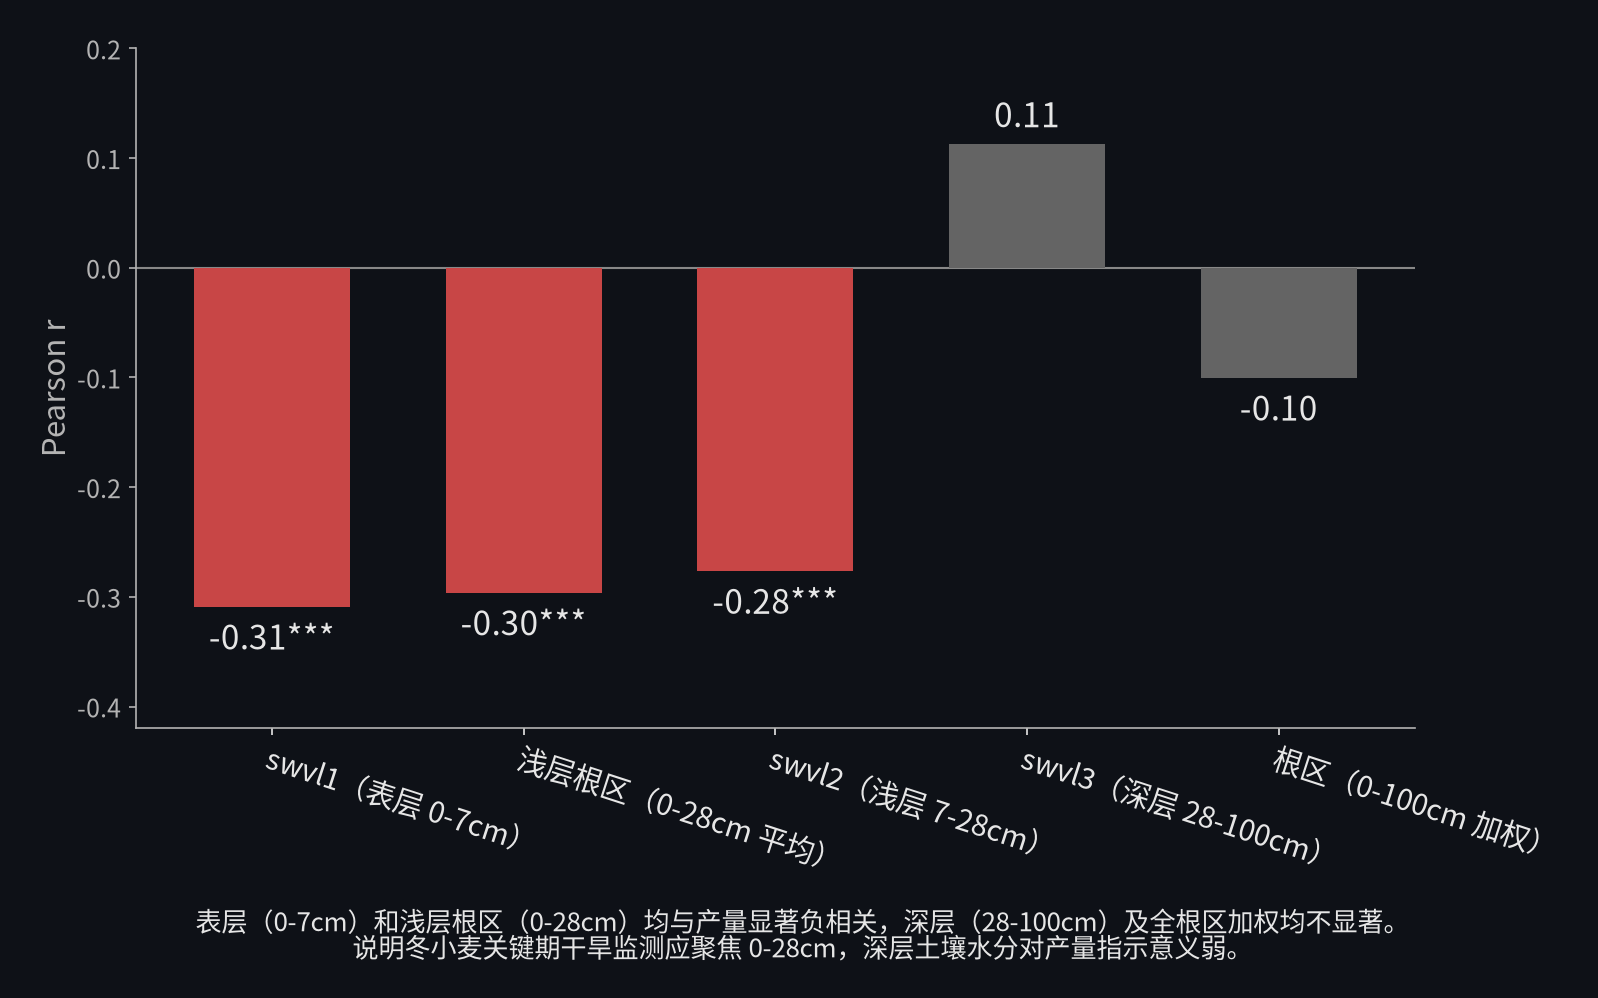
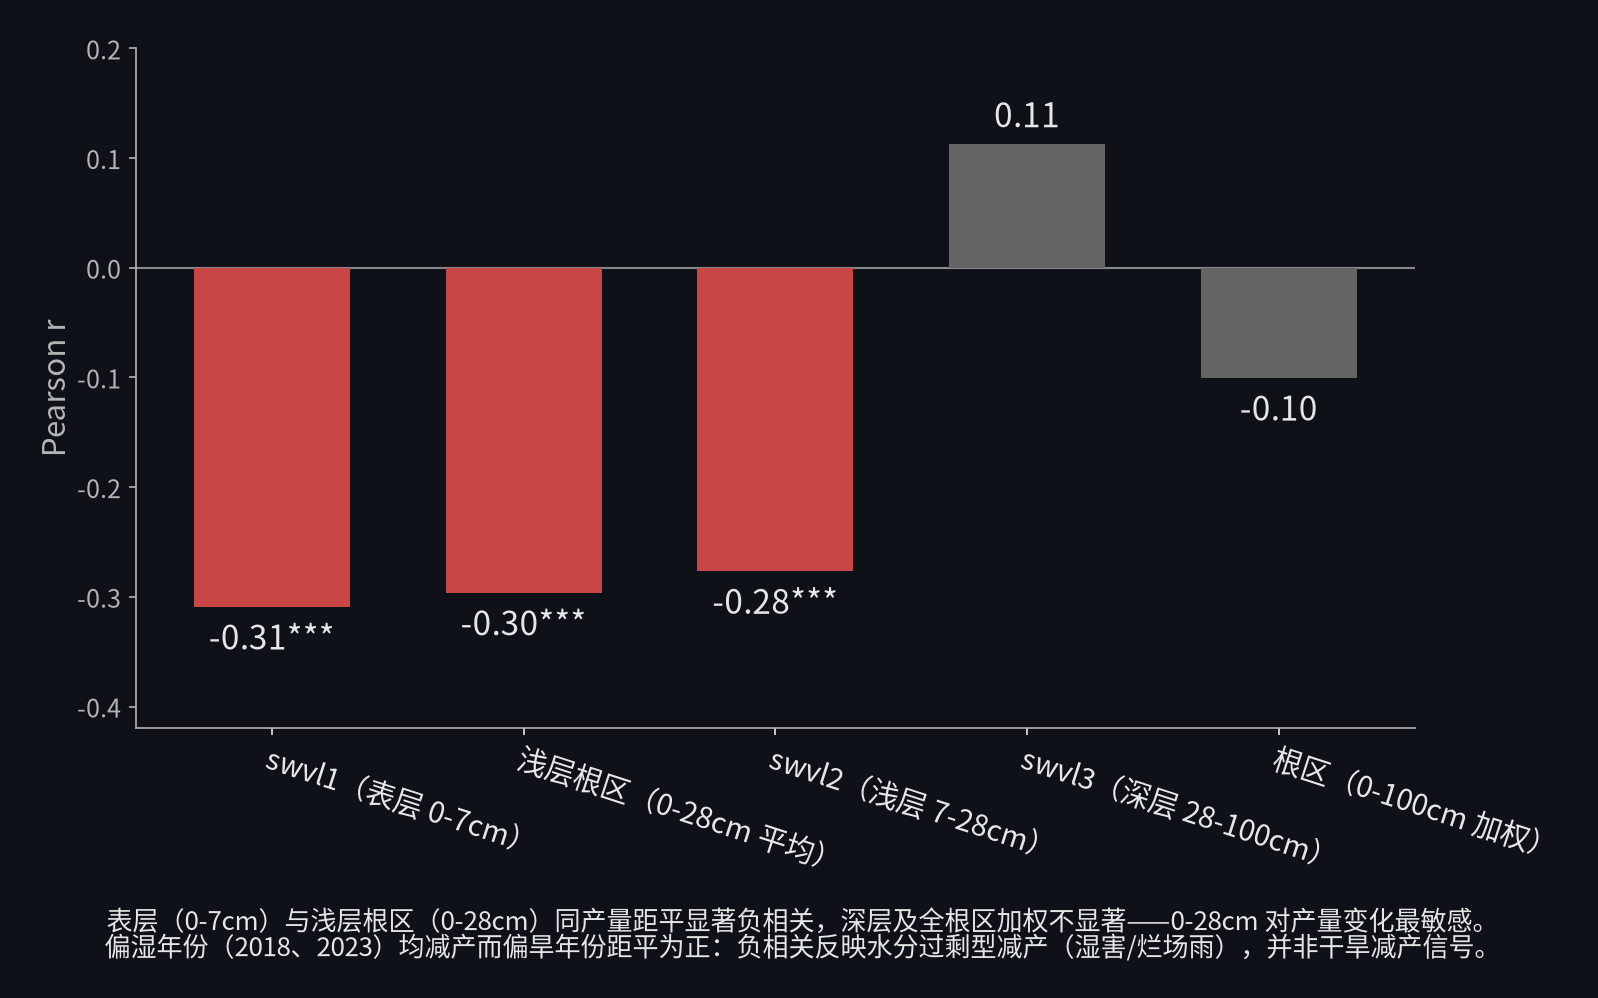
修正产量关联结论的方向性解释: 负相关为偏湿型减产信号而非干旱减产
四路径审计(复跑/月度tif直读/CSV直算/像元级z比对)确认 SSI=+z(负=旱)、r=-0.296 为真实负相关, 链路无取反

驱动事实: 2016-2024 主要减产年(2018霜冻/2023烂场雨)均为4-5月偏湿年份, 偏旱年份(2019/2020/2022)距平均为正

修正 app.py 三处文案 + 五层对比图结论并重新生成深色PNG; 新增 verify_corr_sign.py 符号审计脚本

Changed region(s): [[0.0613, 0.9008, 0.9199, 0.9629]]

diff --git a/verify_corr_sign.py b/verify_corr_sign.py
@@ -1,0 +1,148 @@
+# -*- coding: utf-8 -*-
+"""
+符号审计: 五层 SSI x 产量距平的相关系数 r 究竟是 -0.296 还是 +0.296
+四条独立路径交叉验证 (以浅层根区 0-28cm 为主, 辅以 swvl1):
+  A. 原始脚本复跑 (yield_ssi_analysis_layers.py, 20 波段堆叠)  -> r = -0.296 (已确认)
+  B. 绕过 20 波段堆叠: 直接读 120 个月度 SSI tif 中的 4/5 月 -> 独立重算 r
+  C. 已生成时序 CSV 直接 pearsonr (算术一致性检查)
+  D. 像元级验证: 用原始浅层土壤水分月度 tif 现算 z=(x-mean)/std (ddof=0),
+     与 SSI tif 逐像元比对 -> 证明 SSI = +z (链路中不存在取反)
+最后打印全省逐年 SSI 均值 x 产量距平均值 + 单市明细, 定位负相关的驱动年份。
+"""
+from pathlib import Path
+
+import geopandas as gpd
+import numpy as np
+import pandas as pd
+import rasterio
+from rasterio.features import geometry_mask
+from scipy import stats
+
+ROOT = Path(r"D:\大二\干旱预测")
+YIELD_XLSX = Path(r"d:\桌面\henan_wheat_yield.xlsx")
+CITY_SHP = ROOT / "河南省市shp" / "河南省.shp"
+TS_CSV = ROOT / "产量关联分析" / "city_yield_ssi_timeseries_shallow.csv"
+
+MONTHLY = {"shallow": ROOT / "河南省SSI" / "swvl_shallow_ssi",
+           "swvl1": ROOT / "河南省SSI" / "swvl1"}
+RAW_SM = ROOT / "河南省SSI" / "swvl_shallow"      # 浅层原始土壤水分月度 tif
+
+
+def norm_city(name):
+    n = str(name).strip()
+    for suf in ("示范区", "市"):
+        if n.endswith(suf) and len(n) > len(suf):
+            return n[:-len(suf)]
+    return n
+
+
+def read_tif_nan(path):
+    with rasterio.open(path) as src:
+        arr = src.read(1).astype(np.float64)
+        nod = src.nodata if src.nodata is not None else -3.4e38
+        meta = (src.transform, src.height, src.width)
+    arr[arr <= nod] = np.nan
+    return arr, meta
+
+
+# ---------- 产量距平 (与前期脚本完全一致的公式: 距平 = 实际 - 线性趋势) ----------
+df = pd.read_excel(YIELD_XLSX)
+df.columns = ["年份", "城市", "产量"]
+df["年份"] = df["年份"].astype(int)
+df["key"] = df["城市"].map(norm_city)
+recs = []
+for key, g in df.groupby("key"):
+    g = g.sort_values("年份")
+    x = g["年份"].to_numpy(float)
+    y = g["产量"].to_numpy(float)
+    a, b = np.polyfit(x, y, 1)
+    for yr, yi, ti in zip(x.astype(int), y, a * x + b):
+        recs.append({"年份": yr, "key": key, "实际产量": yi, "趋势产量": ti,
+                     "距平": yi - ti, "减产率%": (yi - ti) / ti * 100.0})
+yield_df = pd.DataFrame(recs)
+
+# ---------- 城市边界 ----------
+gdf = gpd.read_file(CITY_SHP, encoding="utf-8")
+if gdf.crs and gdf.crs.to_epsg() != 4326:
+    gdf = gdf.to_crs(4326)
+CITIES = [(str(r["name"]), norm_city(r["name"]), r.geometry) for _, r in gdf.iterrows()]
+
+
+def city_means(paths):
+    """读若干单波段 tif -> 各市全时段均值 (all_touched, 与前期脚本一致)"""
+    cube = []
+    meta = None
+    for p in paths:
+        arr, meta = read_tif_nan(p)
+        cube.append(arr)
+    cube = np.stack(cube)
+    transform, h, w = meta
+    out = {}
+    for _, key, geom in CITIES:
+        mask = geometry_mask([geom], out_shape=(h, w), transform=transform,
+                             invert=True, all_touched=True)
+        vals = cube[:, mask]
+        vals = vals[np.isfinite(vals)]
+        out[key] = float(vals.mean()) if vals.size else np.nan
+    return out
+
+
+# ---------- 路径 B: 月度 tif 直读 -> 逐年各市 4-5 月 SSI 均值 ----------
+print("=" * 76)
+print("B. 绕过 20 波段堆叠, 直接读月度 SSI tif 重算相关")
+print("=" * 76)
+for tag, folder in MONTHLY.items():
+    rows = []
+    for yr in range(2016, 2026):
+        means = city_means([folder / f"河南SSI_{yr}04.tif", folder / f"河南SSI_{yr}05.tif"])
+        rows += [{"年份": yr, "key": k, "SSI": v} for k, v in means.items()]
+    ssi_df = pd.DataFrame(rows)
+    mg = yield_df.merge(ssi_df, on=["年份", "key"]).dropna(subset=["SSI"])
+    r, p = stats.pearsonr(mg["SSI"], mg["距平"])
+    print(f"  {tag:<8} n={len(mg)}  r={r:+.4f}  p={p:.3e}")
+    if tag == "shallow":
+        ssi_shallow = ssi_df
+        mg_shallow = mg
+
+# ---------- 路径 C: 现成时序 CSV 直接 pearsonr ----------
+ts = pd.read_csv(TS_CSV, encoding="utf-8-sig")
+tsy = ts.dropna(subset=["距平"])
+rC, pC = stats.pearsonr(tsy["SSI"], tsy["距平"])
+print(f"\nC. 时序CSV直算: n={len(tsy)}  r={rC:+.4f}  p={pC:.3e}")
+
+# ---------- 路径 D: 像元级验证 SSI = +z (2025年4月, 浅层) ----------
+print("\n" + "=" * 76)
+print("D. 像元级验证: 用原始浅层土壤水分现算 z, 与 SSI tif 比对 (2025-04)")
+print("=" * 76)
+april_sm = []
+for yr in range(2016, 2026):
+    arr, meta = read_tif_nan(RAW_SM / f"河南浅层SM_{yr}04.tif")
+    april_sm.append(arr)
+samples = np.stack(april_sm)
+mean = np.nanmean(samples, axis=0)
+std = np.nanstd(samples, axis=0, ddof=0)
+z = (samples[-1] - mean) / std          # 2025-04 的 z 分数
+ssi_2504, _ = read_tif_nan(MONTHLY["shallow"] / "河南SSI_202504.tif")
+ok = np.isfinite(z) & np.isfinite(ssi_2504)
+diff = np.abs(z[ok] - ssi_2504[ok])
+print(f"  有效像元 {ok.sum()} 个, |z现算 - SSI.tif| 最大 {diff.max():.4f}, 均值 {diff.mean():.2e}")
+print(f"  corr(z现算, SSI.tif) = {np.corrcoef(z[ok], ssi_2504[ok])[0, 1]:.4f}  (≈1 且同号 => SSI=+z, 无取反)")
+for i, (r_, c_) in enumerate(zip(*np.where(ok)[:3])):
+    print(f"  像元样例 {i+1} (行{r_},列{c_}): 现算 z={z[r_, c_]:+.3f}  vs  SSI tif={ssi_2504[r_, c_]:+.3f}")
+
+# ---------- 驱动分析: 全省逐年 SSI 均值 x 产量距平均值 ----------
+print("\n" + "=" * 76)
+print("驱动分析: 全省逐年 4-5月浅层SSI均值 x 产量距平均值 (2016-2024)")
+print("=" * 76)
+yearly = (mg_shallow.groupby("年份")
+          .agg(SSI均值=("SSI", "mean"), 距平均值=("距平", "mean"),
+               减产率均值=("减产率%", "mean"), n=("距平", "size"))
+          .round(3))
+print(yearly.to_string())
+ry, py = stats.pearsonr(yearly["SSI均值"], yearly["距平均值"])
+print(f"\n  逐年省级均值的相关: r={ry:+.3f} (n={len(yearly)}年)")
+
+# 单市明细: 周口 (浅层 r=-0.613 的代表市)
+print("\n周口市逐年明细 (浅层):")
+zk = mg_shallow[mg_shallow["key"] == "周口"].sort_values("年份")
+print(zk[["年份", "SSI", "实际产量", "趋势产量", "距平", "减产率%"]].round(2).to_string(index=False))

diff --git a/app.py b/app.py
@@ -593,8 +593,8 @@ try:
                    tickfont=dict(size=15, color=_txt_color), tickangle=-18),
     )
     st.plotly_chart(fig_corr, use_container_width=True)
-    st.caption("表层（0-7cm）和浅层根区（0-28cm）均与产量显著负相关，深层（28-100cm）及全根区加权均不显著。"
-               "说明冬小麦关键期干旱监测应聚焦 0-28cm，深层土壤水分对产量指示意义弱。")
+    st.caption("表层（0-7cm）与浅层根区（0-28cm）SSI 同产量距平显著负相关，深层（28-100cm）及全根区加权不显著：0-28cm 对产量变化最敏感。"
+               "样本期（2016-2024）偏湿年份（2018、2023）均减产而偏旱年份（2019、2020、2022）距平均为正——负相关反映偏湿型减产，而非干旱减产。")
 except Exception as exc:
     st.info(f"层位对比数据暂不可用（{exc}）")
 
@@ -641,7 +641,8 @@ if st.session_state.get("click"):
             mod_plus = float(np.average(_lv, weights=_wt)) if _lv else np.nan
             y1, y2, y3 = st.columns(3)
             y1.metric("SSI-产量相关系数 r", f"{r_v:+.2f}" if np.isfinite(r_v) else "—",
-                      help="产量距平 与 4-5月SSI 的 Pearson 相关; 负值 = 越干旱越减产")
+                      help="产量距平 与 4-5月SSI 的 Pearson 相关（SSI 低=旱、距平负=减产，干旱致减产应表现为 r>0）。"
+                           "样本期实测 r 多为负：偏湿年（2018、2023）均减产、偏旱年距平为正，负相关反映的是偏湿型减产而非干旱减产")
             y2.metric("显著性 p 值", (f"{p_v:.3f}" if np.isfinite(p_v) else "—")
                       + (" (显著)" if np.isfinite(p_v) and p_v < 0.05 else ""))
             y3.metric("中度以上干旱平均减产率",
@@ -668,8 +669,8 @@ if st.session_state.get("click"):
                 legend=dict(orientation="h", yanchor="bottom", y=1.02),
             )
             st.plotly_chart(fig_y, use_container_width=True)
-            st.caption("柱=产量距平 (左轴, 负值=减产), 线=4-5月SSI (右轴, 越低越旱); "
-                       "产量数据 2016-2024, SSI 2016-2025。若 SSI 低点常对应负距平柱, 则干旱减产成立。")
+            st.caption("柱=产量距平 (左轴, 负值=减产), 线=4-5月SSI (右轴, 越低越旱); 产量数据 2016-2024, SSI 2016-2025。"
+                       "样本期内减产年多为 4-5 月偏湿（SSI 高点）年份（如 2023 烂场雨、2018 霜冻），偏旱年份距平均为正。")
 
     # ---- 干旱事件列表 (游程理论, 按 行/列 精确匹配点击像元) ----
     ev_px = load_events(version)

diff --git a/产量关联分析/plot_layer_corr_bar.py b/产量关联分析/plot_layer_corr_bar.py
@@ -72,8 +72,8 @@ def main():
 
     # 结论文字 (图下方)
     fig.text(0.5, 0.015,
-             "表层（0-7cm）和浅层根区（0-28cm）均与产量显著负相关，深层（28-100cm）及全根区加权均不显著。\n"
-             "说明冬小麦关键期干旱监测应聚焦 0-28cm，深层土壤水分对产量指示意义弱。",
+             "表层（0-7cm）与浅层根区（0-28cm）同产量距平显著负相关，深层及全根区加权不显著——0-28cm 对产量变化最敏感。\n"
+             "偏湿年份（2018、2023）均减产而偏旱年份距平为正：负相关反映水分过剩型减产（湿害/烂场雨），并非干旱减产信号。",
              ha="center", va="bottom", fontsize=12.5, color=C_TXT, wrap=True)
 
     fig.tight_layout(rect=(0, 0.08, 1, 1))
